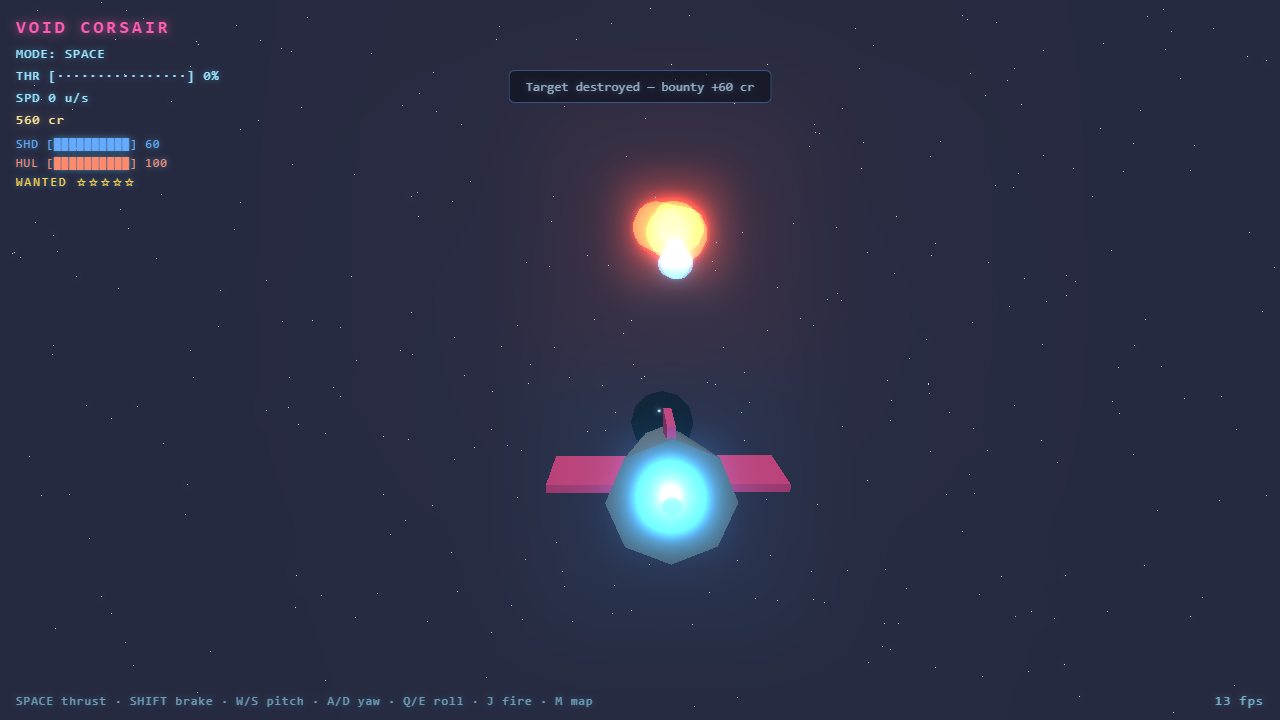
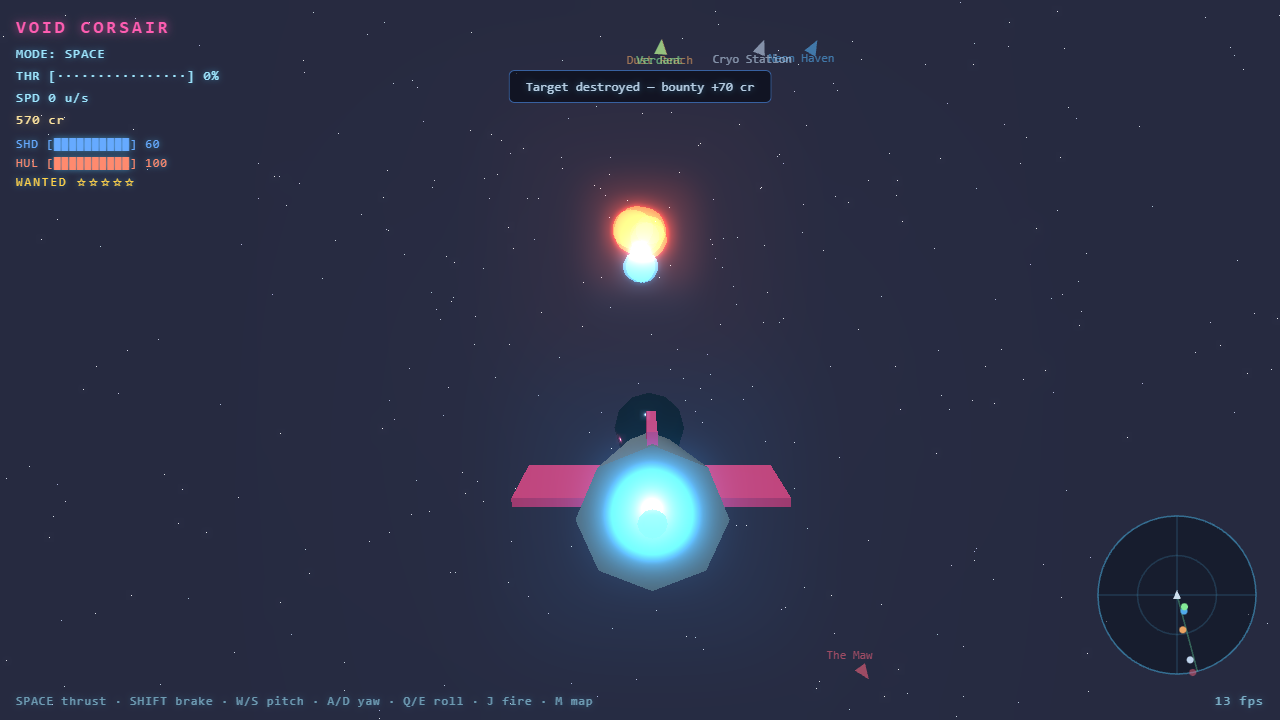
docs: update README for the shipped roadmap (#1–#7) + new systems
- Controls/HUD/How-to-play now cover the pause menu (Esc), follow markers, minimap,
  spatial system map, quest objective, and the Vex quest-giver.
- Systems gains a Storylines entry; Worlds notes per-world terrain + lighting moods.
- Roadmap split into Done (#1–#7) and Planned (#8–#16, incl. NPCs #15 / Armory #16).
- Architecture/Testing/Status refreshed to match current modules and the self-test
  playthrough; hero screenshot updated.

Claude-Session: https://claude.ai/code/session_01YGdYtZ3iFPxbmpa32MFsj5

diff --git a/README.md b/README.md
@@ -1,9 +1,9 @@
 # VOID CORSAIR
 
 A browser 3D **space-pirate** game built with Three.js. Fly your ship between
-worlds, land in neon cities, trade and run missions, upgrade your ship, dogfight
-bounty hunters, and shoot it out with Enforcers on foot — across a lawless star
-cluster.
+worlds, land in neon cities, trade and run missions, follow story quests, upgrade
+your ship, dogfight bounty hunters, and shoot it out with Enforcers on foot —
+across a lawless star cluster.
 
 > *GTA × No Man's Sky × FTL*, stylized and runnable in a browser.
 
@@ -39,14 +39,17 @@ npm run preview    # serves the optimized bundle
    **fast-travel** to a world. You'll arrive at a standoff distance.
 4. **Approach & land.** Fly toward the planet until the green **▸ APPROACH** prompt
    appears, then press **F** to land. The screen fades and you're on foot.
-5. **Work the city.** Walk with **W/A/S/D**. Three glowing vendors are marked:
+5. **Work the city.** Walk with **W/A/S/D** (the minimap, bottom-right, maps the
+   streets). Glowing vendors are marked:
    - **Trader** — buy ship **upgrades** (Engine, Shields, Weapons, Cargo, Hull).
    - **Market** — **buy/sell commodities** (see Trading below).
    - **Mission Board** — accept **delivery** and **bounty** contracts.
+   - **Vex** — a quest-giver who appears when there's a story job to take or hand off.
    Walk up to one and press **E** to interact; press **E** or **Esc** to leave.
 6. **Take off.** Return to your ship (the landing pad) and press **T** to launch.
-7. **Make money & survive.** Run cargo between worlds, complete contracts, and blast
-   raiders for bounties — but watch your **wanted level**.
+7. **Make money & survive.** Follow the markers to your objectives, run cargo
+   between worlds, complete contracts and story quests, and blast raiders for
+   bounties — but watch your **wanted level**, or Enforcers will be waiting when you land.
 
 ---
 
@@ -58,20 +61,29 @@ npm run preview    # serves the optimized bundle
 | **Flight (SPACE)** | `Space` thrust · `Shift`/`Ctrl` brake · `W`/`S` pitch · `A`/`D` yaw · `Q`/`E` roll |
 | **Space combat** | `J` fire lasers (auto-aim lead + light homing) |
 | **Navigate** | `M` star map (number keys to fast-travel) · `F` land when the APPROACH prompt shows |
-| **On foot (SURFACE)** | `W`/`A`/`S`/`D` walk · `J` blaster · `E` interact at glowing vendors · `T` take off at your ship |
-| **Anytime** | `B` bloom on/off · `P` sound on/off · `Esc` close menus *(both settings persist)* |
+| **On foot (SURFACE)** | `W`/`A`/`S`/`D` walk · `J` blaster · `E` interact at glowing vendors / NPCs · `T` take off at your ship |
+| **Anytime** | `Esc` pause menu (settings · save · quit) · `B` bloom · `P` sound *(all settings persist)* |
+
+On-screen **follow markers** point you to worlds, vendors, your ship, and mission/
+quest targets; a **minimap** (on foot) and **radar** (in space) fill in the rest.
 
 ---
 
 ## Reading the HUD
 
-- **Top-left:** mode, throttle bar, speed, **credits**, and in combat your
-  **shield (SHD)**, **hull (HUL)**, and **wanted** stars + hostile count.
+- **Top-left:** mode, throttle bar, speed, **credits**, your active **quest
+  objective**, and in combat your **shield (SHD)**, **hull (HUL)**, and **wanted**
+  stars + hostile count.
 - **On foot:** the current world + theme, and (in a firefight) your **HP** bar and
   enforcer count.
-- **Bottom-right radar:** ship at center, **forward = up**; planet blips are themed
-  colors, hostiles are red. Off-range contacts cling to the rim.
-- **Center prompts/toasts:** approach/landing/interact hints and event news.
+- **Follow markers:** screen-space labels point to worlds/vendors/your ship; ones
+  off-screen clamp to the edge as chevrons. Mission/quest targets are highlighted.
+- **Bottom-right:** the **radar** in space (ship-relative, forward = up; planets
+  themed, hostiles red) and the top-down **minimap** on foot (streets, pad, vendors,
+  enemies, your heading).
+- **Star map (`M`):** a spatial overview of the whole cluster — worlds to scale, the
+  sun, your ship, plus mission and market-event flags — above the fast-travel list.
+- **Center prompts/toasts:** approach/landing/interact hints, dialogue, and news.
 
 ---
 
@@ -86,6 +98,9 @@ take off → fight or fast-travel → repeat.
   high elsewhere. **Spice** is contraband: high value, flagged illegal.
 - **Missions.** **Delivery** jobs pay out when you land at the destination.
   **Bounty** contracts pay out once you've destroyed enough raiders. Up to 4 active.
+- **Storylines.** Named NPCs (e.g. **Vex**) offer multi-step **quests** that span
+  worlds — talk, travel, fight, deliver — with dialogue, a tracked objective, and a
+  payout. Starter arc: *The Maw Job*.
 - **Ship upgrades.** Engine (top speed), Shields, Weapons, Cargo, Hull — bought at
   the Trader; effects apply on your next launch.
 - **Space combat.** Lasers with auto-aim lead + light homing. Enemies come in three
@@ -100,6 +115,9 @@ take off → fight or fast-travel → repeat.
 
 ## Worlds
 
+Each world has its own **terrain** (dunes, ice plains, jungle hills, asteroid rock,
+wet flats), **lighting mood** + fog, and market character:
+
 **Neon Haven** (cyberpunk port) · **Dust Reach** (desert frontier) · **Cryo
 Station** (ice labs) · **Verdant** (jungle, high security) · **The Maw** (asteroid
 stronghold).
@@ -110,27 +128,25 @@ stronghold).
 
 Tracked as GitHub issues — contributions welcome.
 
-**World & visuals**
-- [#1 Planetary terrain](https://github.com/jmoore6364/SpacePirates/issues/1) — real low-poly terrain instead of the flat city ground.
-- [#2 Lighting & atmosphere](https://github.com/jmoore6364/SpacePirates/issues/2) — per-world lighting, shadows, day/night.
+**Done ✅**
+- [#1](https://github.com/jmoore6364/SpacePirates/issues/1) Planetary terrain
+- [#2](https://github.com/jmoore6364/SpacePirates/issues/2) Lighting & atmosphere (moods, shadows, day/night)
+- [#3](https://github.com/jmoore6364/SpacePirates/issues/3) Follow markers / waypoints
+- [#4](https://github.com/jmoore6364/SpacePirates/issues/4) Storylines & quests (framework + *The Maw Job* + dialogue)
+- [#5](https://github.com/jmoore6364/SpacePirates/issues/5) World minimap
+- [#6](https://github.com/jmoore6364/SpacePirates/issues/6) Space sector / system map
+- [#7](https://github.com/jmoore6364/SpacePirates/issues/7) Menu & pause system (settings, volume, save, quit)
 
-**Navigation & UI**
-- [#3 Follow markers / waypoints](https://github.com/jmoore6364/SpacePirates/issues/3) — on-screen markers to targets, vendors, and your ship.
-- [#5 World minimap](https://github.com/jmoore6364/SpacePirates/issues/5) — top-down city map while on foot.
-- [#6 Space sector / system map](https://github.com/jmoore6364/SpacePirates/issues/6) — spatial cluster overview for route planning.
-- [#7 Menu & pause system](https://github.com/jmoore6364/SpacePirates/issues/7) — pause, settings (volume/graphics), save, quit.
-
-**Progression & gameplay**
-- [#4 Storylines & quests](https://github.com/jmoore6364/SpacePirates/issues/4) — branching narrative, named NPCs, a campaign.
-- [#8 Experience, levels & skill tree](https://github.com/jmoore6364/SpacePirates/issues/8) — XP and perks for piloting/gunnery/trading/engineering.
+**Planned**
+- [#8 Experience, levels & skill tree](https://github.com/jmoore6364/SpacePirates/issues/8) — XP + perks for piloting/gunnery/trading/engineering.
 - [#9 Shipyard — ship variety](https://github.com/jmoore6364/SpacePirates/issues/9) — buy/swap distinct hulls.
-- [#10 Fuel & jump-range](https://github.com/jmoore6364/SpacePirates/issues/10) — fuel makes distance and route planning matter.
-
-**Quality of life**
+- [#10 Fuel & jump-range](https://github.com/jmoore6364/SpacePirates/issues/10) — fuel makes distance and routes matter.
 - [#11 Save slots + manual save/load](https://github.com/jmoore6364/SpacePirates/issues/11)
 - [#12 Achievements & run stats](https://github.com/jmoore6364/SpacePirates/issues/12)
 - [#13 Gamepad support & key remapping](https://github.com/jmoore6364/SpacePirates/issues/13)
 - [#14 Tutorial / onboarding](https://github.com/jmoore6364/SpacePirates/issues/14)
+- [#15 Living NPCs](https://github.com/jmoore6364/SpacePirates/issues/15) — wandering civilians, named characters, dialogue.
+- [#16 Weapons & armor (Armory)](https://github.com/jmoore6364/SpacePirates/issues/16) — personal loadout shop for on-foot combat.
 
 See the full [issue tracker](https://github.com/jmoore6364/SpacePirates/issues).
 
@@ -143,15 +159,17 @@ WebGL engine could be swapped in later (see `docs/ENGINE-ROADMAP.md`).
 
 ```
 src/
-  renderer/   Renderer — the only place Three.js rendering lives (+ bloom, shake)
-  core/       GameLoop, GameState (scene state machine), Input, cameras
-  scenes/     SpaceScene, SurfaceScene, props, city builder
+  renderer/   Renderer — the only place Three.js rendering lives (+ bloom, shadows, shake)
+  core/       GameLoop, GameState (scene state machine), Input, ChaseCamera, ThirdPersonCamera
+  scenes/     SpaceScene, SurfaceScene, props, city builder (+ terrain heightfield)
   entities/   Ship, Character
-  systems/    Combat, GroundCombat, Audio (procedural WebAudio)
-  game/       Player (economy/upgrades/save), Missions, Market
-  ui/         StarMap, Panels (shop/market/missions), TitleScreen
-  world/      Worlds (canonical world data)
+  systems/    Combat (space), GroundCombat (on-foot), Audio (procedural WebAudio)
+  game/       Player (economy/upgrades/cargo/quests/save), Missions, Market, Quests
+  ui/         StarMap (+ system map), Panels (shop/market/missions/dialogue),
+              TitleScreen, MenuScreen (pause/settings)
+  world/      Worlds (canonical world data + per-world terrain/lighting profiles)
   util/       math
+  main.js     wires it together: HUD, radar, minimap, follow markers, transitions
 docs/         DESIGN.md, ENGINE-ROADMAP.md, PACKAGING.md
 tests/        logic/ (node:test) + screenshot.mjs (Playwright→Edge self-test)
 ```
@@ -160,22 +178,28 @@ tests/        logic/ (node:test) + screenshot.mjs (Playwright→Edge self-test)
 
 ```bash
 npm test           # logic unit tests + headless screenshot self-test
-npm run test:logic # node:test — math, economy, missions, trading
+npm run test:logic # node:test — math, economy, missions, trading, quests (24 tests)
 npm run test:shot  # builds, serves, drives the game in headless Edge, screenshots
 ```
 
-The screenshot harness plays the whole game — title → flight → space combat →
-star map → landing → on-foot combat → shop → missions → market → takeoff — saving a
-shot of each scene to `test-screenshots/` and failing on any console/WebGL error.
-Only *feel* (handling, difficulty, fun) needs a human.
+The screenshot harness plays the whole game — title → pause menu → space combat
+(3 enemy types) → system map → landing on terrain → minimap → on-foot combat → shop
+→ missions → market → take a quest from Vex → takeoff — saving a shot of each scene
+to `test-screenshots/` and failing on any console/WebGL error. Only *feel*
+(handling, difficulty, fun) needs a human.
 
 ## Status
 
-Core game complete: scaffold, arcade flight, 5 worlds + star-map travel, landing +
-on-foot city, economy (upgrades/missions/trading), space **and** on-foot combat,
-radar, and juice (bloom, screen shake, procedural audio, title, save/load). Desktop
-packaging (Electron → `.exe`/Steam) is optional — see `docs/PACKAGING.md`. Next up:
-see the [Roadmap](#roadmap).
+Core game + first roadmap wave complete: arcade flight, 5 worlds with distinct
+**terrain** and **lighting moods**, star-map + **spatial system map**, landing and
+on-foot **neon cities**, economy (upgrades / missions / dynamic **trading**),
+**space and on-foot combat** (three enemy archetypes, wanted level, Enforcers),
+**storyline quests** with dialogue, **follow markers / radar / minimap**, a
+**pause menu** with settings, and juice (bloom, shadows, screen shake, procedural
+audio, title, save/load).
+
+Roadmap #1–#7 are done; #8–#16 are planned (see the [Roadmap](#roadmap)). Desktop
+packaging (Electron → `.exe`/Steam) is optional — see `docs/PACKAGING.md`.
 
 ## Credits
 